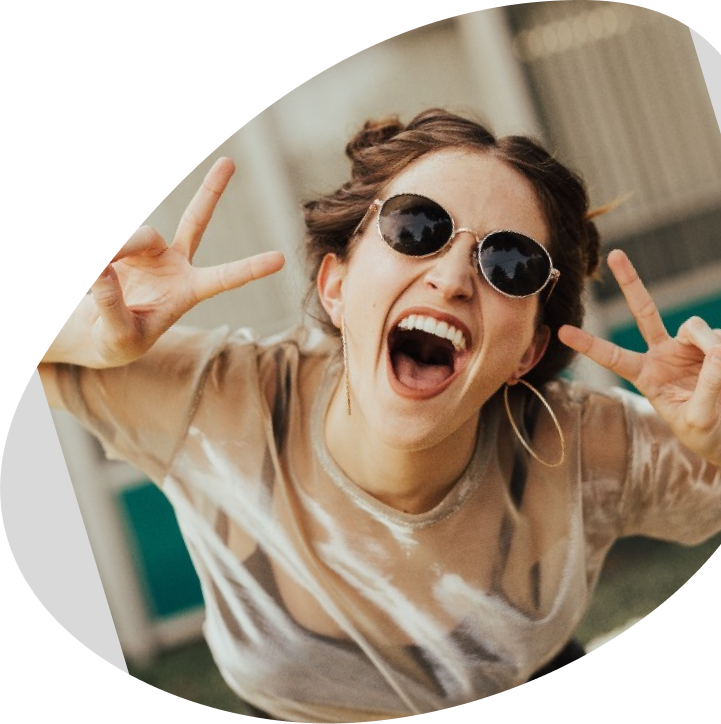
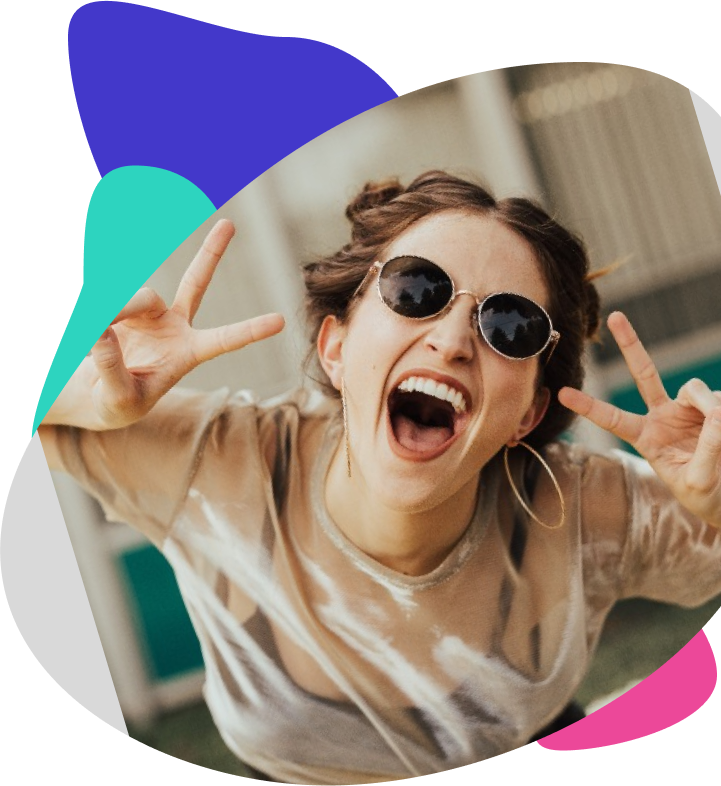
replaced images to fit the new design

diff --git a/MeetAppFrontend/src/pages/auth/register.tsx b/MeetAppFrontend/src/pages/auth/register.tsx
@@ -43,7 +43,7 @@ export default function Register() {
     const response = await register(data);
     if (typeof response == 'string') methods.setError('root', { message: response });
   };
-  console.log(methods.getValues());
+
   return (
     <>
       <section className="flex flex-col justify-center pl-12">
@@ -98,11 +98,11 @@ export default function Register() {
             </div>
 
             <div className="flex w-full flex-col pt-[50px]">
-              <div className="divider before:h-[1px] before:bg-gray50 after:h-[1px] after:bg-gray50"></div>
+              <div className="before:bg-gray50 after:bg-gray50 divider before:h-[1px] after:h-[1px]"></div>
             </div>
 
             <div className="mb-3">
-              <span className="text-blue-600 text-xs font-light">
+              <span className="text-xs font-light">
                 Already have an account?
                 <Link href={routes.signin} className="ml-1 underline">
                   Log in
@@ -114,7 +114,7 @@ export default function Register() {
       </section>
 
       <section className="relative w-full flex-grow pl-4">
-        <div className="relative -top-[245px]  h-full max-w-[1440px] bg-registerImg bg-cover bg-no-repeat"></div>
+        <div className="relative h-full max-w-[1440px] bg-registerImg bg-cover bg-no-repeat"></div>
       </section>
     </>
   );

diff --git a/MeetAppFrontend/src/components/Layouts/Layout.tsx b/MeetAppFrontend/src/components/Layouts/Layout.tsx
@@ -11,8 +11,8 @@ export default function Layout({ children }: LayoutProps) {
   return (
     <div className="flex flex-col items-center">
       <Head>
-        <title>Create Next App</title>
-        <meta name="description" content="Generated by create next app" />
+        <title>Meet App</title>
+        <meta name="description" content="Application for meeting people with similar interests" />
         <meta name="viewport" content="width=device-width, initial-scale=1" />
         <link rel="icon" href="/favicon.ico" />
       </Head>
@@ -20,7 +20,7 @@ export default function Layout({ children }: LayoutProps) {
       <main className="relative flex min-h-screen w-full flex-col xl:container">
         <Navbar />
         <div className="absolute left-0 top-[4rem] z-0 h-[782px] w-full w-full max-w-[1440px] bg-grayBg bg-cover bg-no-repeat" />
-        <div className="∂mt-5 flex flex-auto">{children}</div>
+        <div className="mt-5 flex flex-auto">{children}</div>
 
         <Footer />
       </main>

diff --git a/MeetAppFrontend/src/pages/index.tsx b/MeetAppFrontend/src/pages/index.tsx
@@ -18,10 +18,8 @@ export default function HomePage() {
             Create account and check it!
           </Button>
         </div>
-        <div className="relative h-[720px] w-1/2">
+        <div className="relative flex w-1/2 flex-col">
           <div className="absolute top-0 h-full w-full bg-headerGirl bg-no-repeat"></div>
-          <div className="absolute top-[125px] -z-[9] h-full w-full bg-blueHeaderFigure bg-no-repeat"></div>
-          <div className="absolute -z-10 h-[280px]  w-full bg-pinkHeaderFigure bg-no-repeat"></div>
         </div>
       </section>
     </div>

diff --git a/MeetAppFrontend/tailwind.config.js b/MeetAppFrontend/tailwind.config.js
@@ -5,9 +5,7 @@ module.exports = {
     backgroundImage: {
       grayBg: "url('../images/GrayBG.png')",
       headerGirl: "url('../images/HappyGirl.png')",
-      pinkHeaderFigure: "url('../images/PinkHeaderFigure.png')",
-      blueHeaderFigure: "url('../images/BlueHeaderFigure.png')",
-      signUpImg: "url('../images/SignUpImg.png')",
+      signInImg: "url('../images/SignInImg.png')",
       registerImg: "url('../images/RegisterImg.png')",
     },
     fontFamily: {

diff --git a/MeetAppFrontend/src/pages/auth/signIn.tsx b/MeetAppFrontend/src/pages/auth/signIn.tsx
@@ -77,7 +77,7 @@ export default function SignIn({ csrfToken }: InferGetServerSidePropsType<typeof
       </section>
 
       <section className="relative w-full flex-grow overflow-hidden pl-4">
-        <div className="absolute -top-[235px] h-full  w-full max-w-[1440px] bg-signUpImg bg-cover bg-no-repeat"></div>
+        <div className="absolute h-full  w-full max-w-[1440px] bg-signInImg bg-cover bg-no-repeat"></div>
       </section>
     </>
   );
